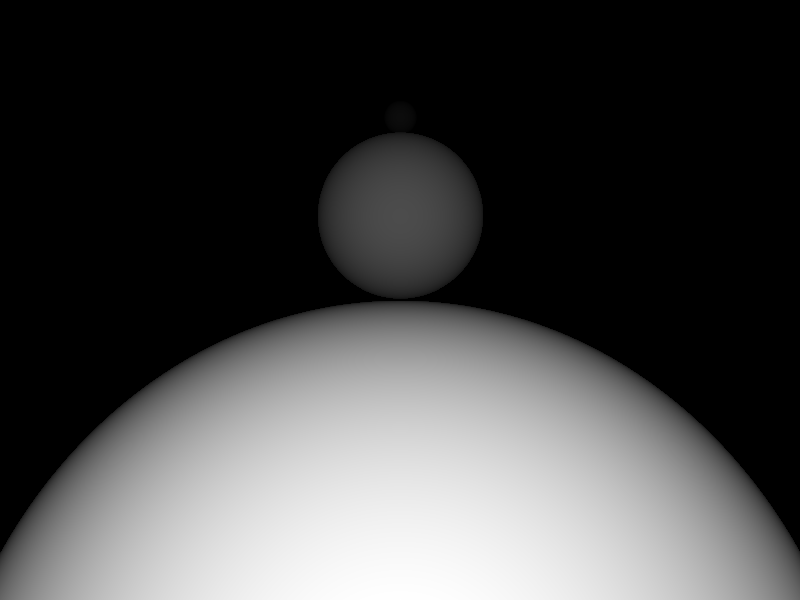
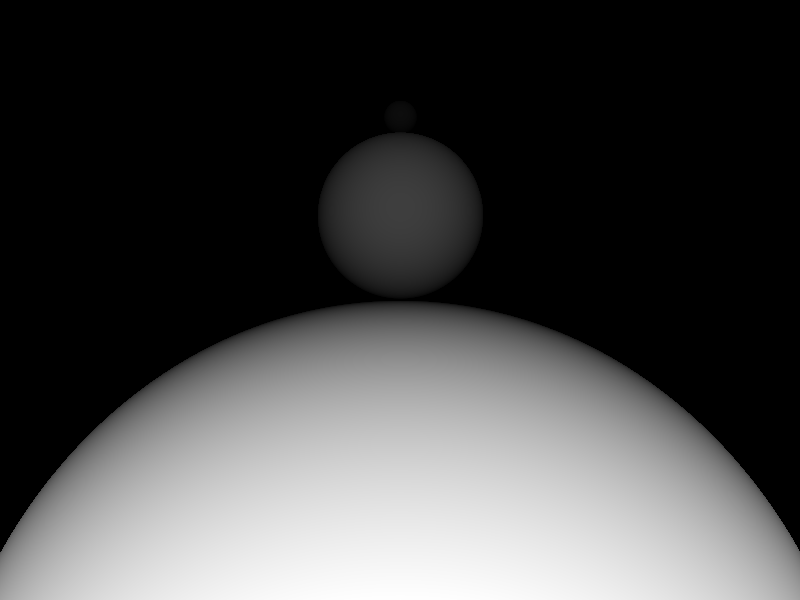
Can Use recursive function to read node

Changed region(s): [[0.8438, 0.72, 1.0, 1.0], [0.0, 0.72, 0.1562, 1.0]]

diff --git a/BHRayTracer/Main.cpp b/BHRayTracer/Main.cpp
@@ -11,28 +11,31 @@ Sphere theSphere;
 #define PI 3.14159265
 int LoadScene(char const *filename);
 
-void recursive(Color24* _pixels, int _i, int _j,Node* root, Ray ray) {
+void recursive(int _i, int _j,Node* root, Ray ray, bool &_bHit) {
 	if (root->GetNumChild() <= 0) return;
 	for (int i = 0; i < root->GetNumChild(); i++)
 	{
 		if (root->GetChild(i)->GetNodeObj() != nullptr) {
 			
 			Ray transformedRay = root->GetChild(i)->ToNodeCoords(ray);
+			recursive(_i, _j,root->GetChild(i), transformedRay, _bHit);
+
 			HitInfo outHit;
 			outHit.node = root->GetChild(i);
+
 			if (root->GetChild(i)->GetNodeObj()->IntersectRay(transformedRay, outHit, 1))
 			{
-				_pixels[_j*camera.imgWidth + _i].Set(255, 255, 255);
-			}
-			recursive(_pixels, _i, _j,root->GetChild(i), transformedRay);
-		}
+				renderImage.GetPixels()[_j*camera.imgWidth + _i].Set(255, 255, 255);
+				renderImage.GetZBuffer()[_j*camera.imgWidth + _i] = outHit.z;
 
+				_bHit = true;
+			}
+		}
 	}
 }
 
 void ShowViewport();
 void BeginRender() {
-	// Ray pre-calcuated data
 	Vec3f rayStart = camera.pos;
 	float aor = camera.imgWidth / (float)camera.imgHeight;
 	float tan_h_pov = tan(camera.fov / 2 * PI / 180.0);
@@ -43,57 +46,30 @@ void BeginRender() {
 	Vec3f camYAxis = Vec3f(0, 0, 1);
 	Vec3f camXAxis = camZAxis.Cross(camYAxis);
 	Vec3f topLeft = rayStart - camZAxis * l + camYAxis * h / 2 - camXAxis * w / 2;
+	Ray tRay;
+	tRay.p = rayStart;
 
-	// Node info
-
-	Sphere* sps = new Sphere[3];
-	sps[0].c = Vec3f(0, 50, -25);
-	sps[0].r = 25;
-	sps[1].c = Vec3f(0, 50, 5.1f);
-	sps[1].r = 5;
-	sps[2].c = Vec3f(0, 50, 11.1f);
-	sps[2].r = 1;
-
-	
-	Color24* pixels = renderImage.GetPixels();
 	renderImage.ResetNumRenderedPixels();
-	float* zBuffers = renderImage.GetZBuffer();
-
 	for (size_t i = 0; i < camera.imgWidth; i++)
 	{
 		for (size_t j = 0; j < camera.imgHeight; j++)
 		{
-
-			Ray tempRay;
-			tempRay.p = rayStart;
 			Vec3f pixelPos = topLeft + (i + 1 / 2) * w / camera.imgWidth * camXAxis - (j + 1 / 2) * h / camera.imgHeight * camYAxis;
-			tempRay.dir = pixelPos - rayStart;
-
+			tRay.dir = pixelPos - rayStart;
 			// For this ray, if it hits or not
 			bool bHit = false;
-			//recursive(pixels, i, j, &rootNode, tempRay);
-			for (size_t s = 0; s < 3; s++)
-			{
-				HitInfo outHit;
-				if (sps[s].IntersectRay(tempRay, outHit, 1)) {
-					pixels[j*camera.imgWidth + i].Set(255, 255, 255);
-					zBuffers[j*camera.imgWidth + i] = outHit.z;
-					bHit = true;
-					// if it hit, do need to go to next sphere
-					break;
-				}
-			}
+			recursive(i, j, &rootNode, tRay, bHit);
 			// if it is not hit, write as black and the z buffer is big float
 			if (!bHit) {
-				pixels[j*camera.imgWidth + i].Set(0, 0, 0);
-				zBuffers[j*camera.imgWidth + i] = BIGFLOAT;
+				renderImage.GetPixels()[j*camera.imgWidth + i].Set(0, 0, 0);
+				renderImage.GetZBuffer()[j*camera.imgWidth + i] = BIGFLOAT;
 			}
 			renderImage.IncrementNumRenderPixel(1);
 		}
 	}
 	renderImage.ComputeZBufferImage();
 	renderImage.SaveImage("Output/Result/proj1.png");
-	renderImage.SaveZImage("Output/Result/output/proj1_z.png");
+	renderImage.SaveZImage("Output/Result/proj1_z.png");
 }
 void StopRender() {
 
@@ -106,8 +82,6 @@ int main() {
 
 	printf("Render image width: %d\n", renderImage.GetWidth());
 	printf("Render image height: %d", renderImage.GetHeight());
-
-
 
 	ShowViewport();
 	return 0;

diff --git a/BHRayTracer/Sphere.cpp b/BHRayTracer/Sphere.cpp
@@ -2,16 +2,14 @@
 #include "cyVector.h"
 bool Sphere::IntersectRay(Ray const &ray, HitInfo &hInfo, int hitSide /*= HIT_FRONT*/) const
 {
-	// dot(p-c, p-c) = (x-cx)^2 + (y-cy)^2 + (z-cz)^2 = r*r
+	// dot(p, p) = (x)^2 + (y)^2 + (z)^2 = 1
 	// p = origin + dist * dir;
 	Vec3f dir = ray.dir;
-	dir.Normalize();
-
-	Vec3f oc = ray.p - c;
+	Vec3f oc = ray.p;
 
 	float A = dir.Dot(dir);
 	float B = 2 * dir.Dot(oc);
-	float C = oc.Dot(oc) - r * r;
+	float C = oc.Dot(oc) - 1;
 
 	float DD = B * B - 4 * A*C;
 	if (DD > 0) {

diff --git a/BHRayTracer/DataStructure/objects.h b/BHRayTracer/DataStructure/objects.h
@@ -23,10 +23,6 @@ class Sphere : public Object
 public:
 	virtual bool IntersectRay(Ray const &ray, HitInfo &hInfo, int hitSide = HIT_FRONT) const;
 	virtual void ViewportDisplay() const;
-
-	Vec3f c;
-	float r;
-
 };
 
 
